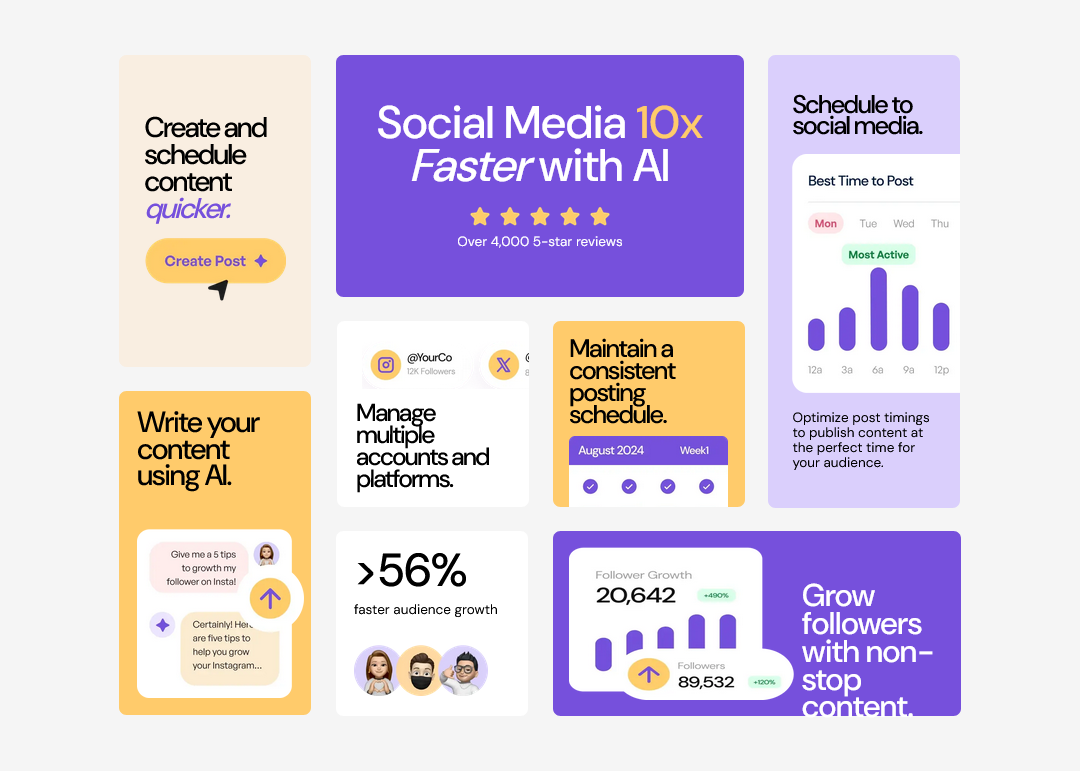
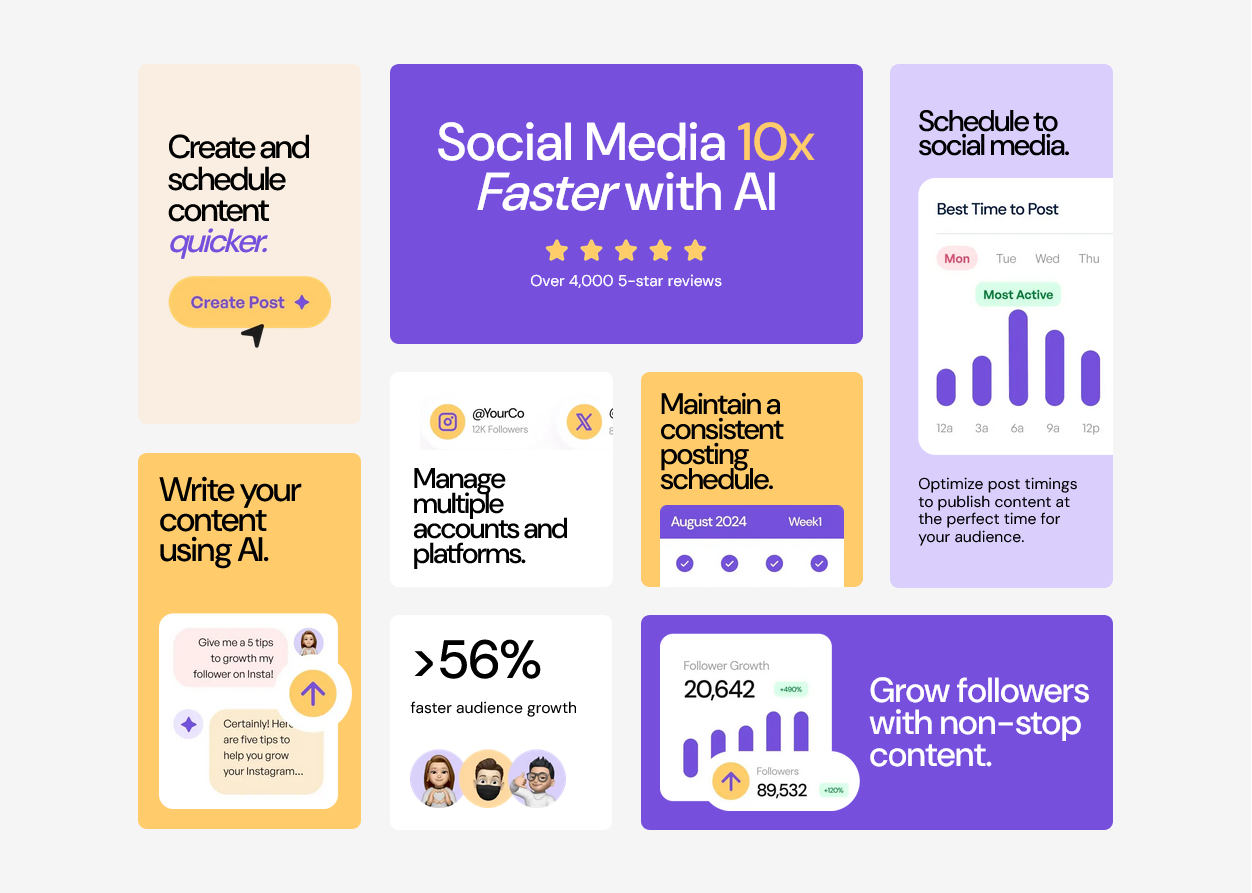
Add files via upload

diff --git a/style.css b/style.css
@@ -39,9 +39,7 @@ body {
   font-size: 18px;
   font-weight: 400;
 }
-/* .content-area {
-  background: var();
-} */
+
 .main-area {
   min-width: 320px;
   padding: 10% 4.26%;
@@ -317,14 +315,17 @@ body {
     grid-area: card5;
   }
 
+  .card5 .img5 {
+    flex-basis: 46%;
+  }
   .card5 img {
     height: 100%;
     margin: 0;
   }
   .card5 h2 {
-    flex-basis: 60%;
+    flex-basis: 54%;
     text-align: left;
-    font-size: 42px;
+    font-size: 40px;
     padding-right: 0;
     padding-left: 11px;
     line-height: 37px;
